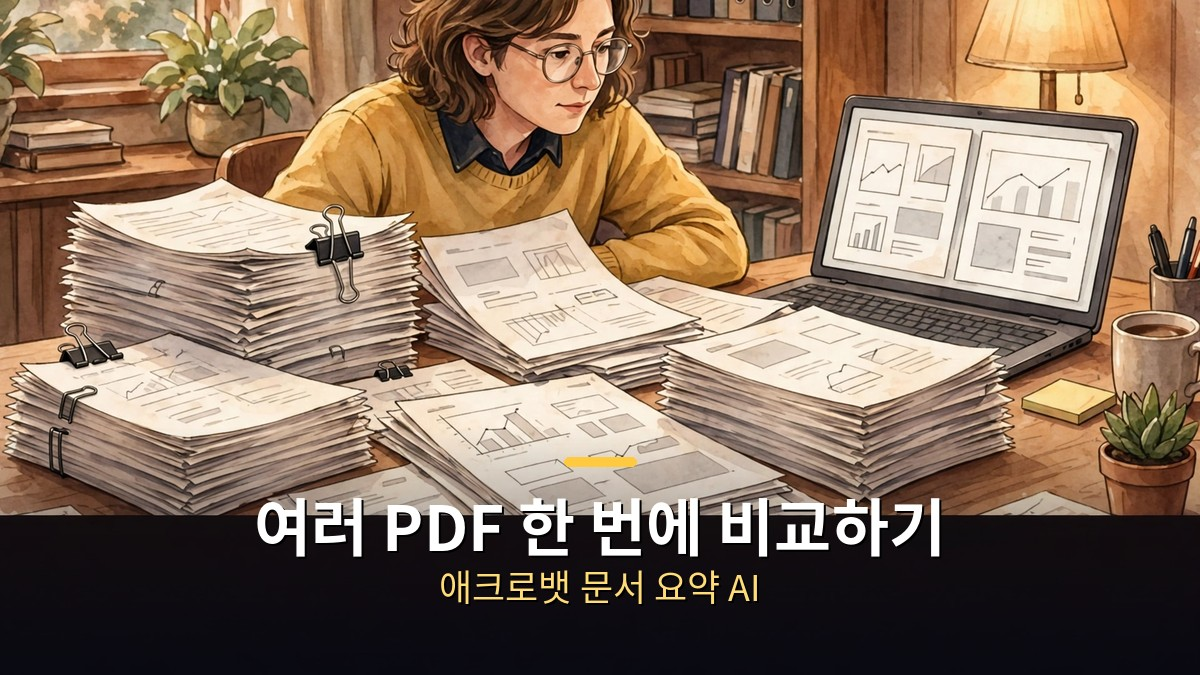
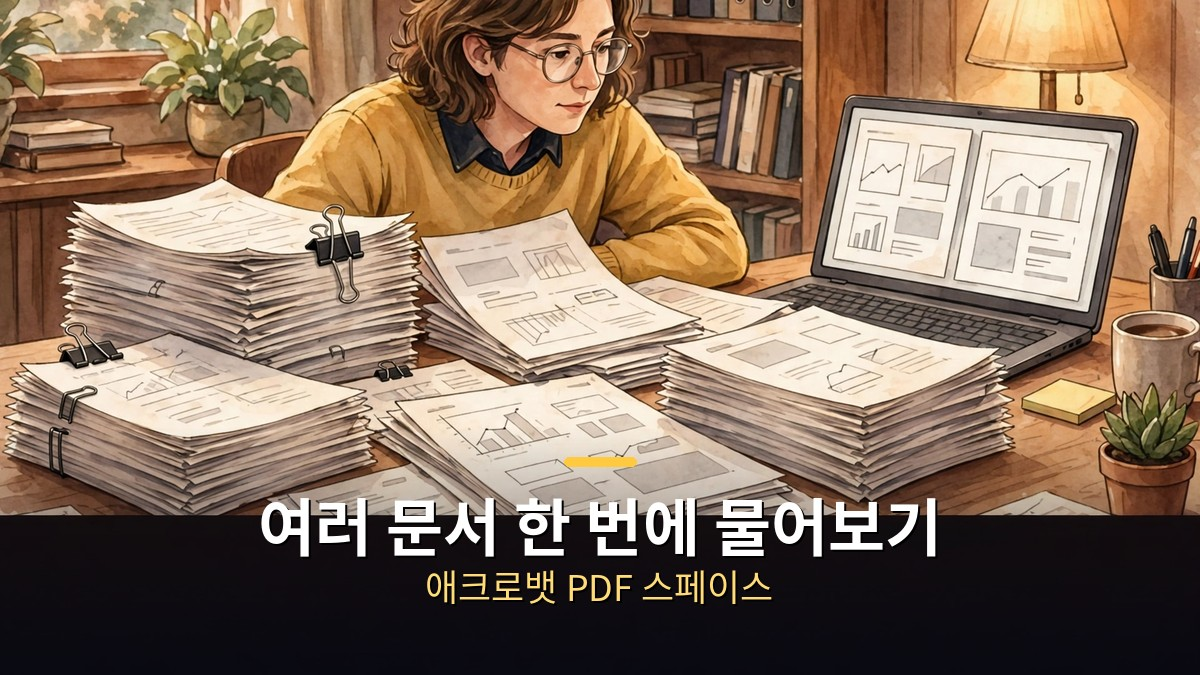
2026-10-30 muse-01 rev2: news 001 PDF Spaces reframe + 002 Carbon Argon note

Changed region(s): [[0.2158, 0.7156, 0.8017, 0.9022]]

diff --git a/posts/muse-01/2026-10-30-001/post.en.md b/posts/muse-01/2026-10-30-001/post.en.md
@@ -2,9 +2,9 @@
 post_id: "2026-10-30-001"
 muse_account: "muse-01"
 language: "en"
-revision: 1
+revision: 2
 status: "ready"
-title: "Comparing Multiple PDFs at Once｜How to Use Acrobat's Document Summary AI"
+title: "Asking Several Documents at Once｜How to Use Acrobat PDF Spaces"
 category: "AI 뉴스"
 platform_categories:
   wordpress-en: "AI News"
@@ -24,96 +24,95 @@ result:
 
 <!-- 본문 시작 -->
 
-![Comparing Multiple PDFs at Once](images/01-hero-en.jpg)
+![Asking Documents at Once](images/01-hero-en.jpg)
 
-Contracts, reports, papers.
-Open them one by one and you end up reading the same content three times.
+The more reports pile up, the slower finding an answer becomes.
+You open files one by one, compare numbers, and flip between last month and this month.
 
-Acrobat's document summary AI summarizes and compares several documents at once.
-The point is not to read less, but to narrow down exactly what needs checking.
+Acrobat PDF Spaces gathers several documents in one place and lets you ask questions of them.
+Instead of reading documents, you ask the documents.
 
 > **Key takeaway**
 >
-> Summarizing and comparing multiple documents at once is what Acrobat AI does best.
-> For contracts, it compares up to 10 documents for changes and inconsistencies, and shows citations to the original text for its answers.
-> A summary is only a starting point. Before signing or paying, click the citation and check the original yourself.
+> A PDF Space is a room that answers only from documents you put in it.
+> Numbers in an answer carry citation numbers pointing to the original text, so clicking one lets you check the evidence yourself.
+> Up to 100 files, links, and text blocks can be gathered in one Space.
+> But the reports and figures shown in the video demo are fictional material made for filming, so they must not be quoted as real business figures.
 
-## What changes when you summarize several documents at once?
+## What makes a PDF Space different?
 
-![Many Documents, One Summary](images/02-img1-en.jpg)
-When several documents are summarized together, you no longer read each file separately.
+![A Room You Ask Questions In](images/02-img1-en.jpg)
+A PDF Space is not a folder. It is a room you ask questions in.
 
-Acrobat AI Assistant creates an outline and section summaries when you open a document.
-Its distinctive feature is analyzing multiple documents together, pulling out shared points, differences, and connections.
-According to Adobe's official guidance, up to 100 documents can be analyzed at once.
+First create a Space, then add PDF, Excel, PowerPoint, and Word documents and web links.
+You can add them as they are, without converting them to PDF first. That is the starting point.
+According to the video, up to 100 files, links, and text blocks can be gathered in one Space.
 
+Once documents are in, an automatic summary is created, and questions are answered from the documents inside the Space.
 This shines when material is scattered.
-Meeting notes in several files, multiple versions of a report, survey results split across files.
-Gathering only the key points from each file makes it much faster to grasp the whole picture.
+Monthly reports in several files, or supplier documents in several files, can be compared across files with one question.
 
-But the wider the scope, the rougher the summary becomes.
-With more files, it is harder to fit every detailed condition into the summary.
-So use the overall summary to set direction, and re-check important numbers and conditions in the individual files.
+But the wider the scope, the rougher the answer becomes.
+With more files, it is harder to fit every detailed condition into the answer.
+So use the overall summary to set direction, and re-check important numbers and conditions in the original through the citation numbers.
 
-When summarizing multiple documents, deciding your questions first makes the result much sharper.
-"What is the shared conclusion?" or "Where do they disagree?" Set the comparison criteria first.
-Asking only "summarize this" tends to leave polished sentences while the differences you actually need drop out.
+## How do you compare monthly reports?
 
-## How should contract comparison be used?
+![Monthly Comparison in One Question](images/03-img2-en.jpg)
+The key to comparison is asking one clear question.
 
-![Comparing Contracts This Way](images/03-img2-en.jpg)
-Contract comparison is the most practical use of multi-document summary.
+For example, put several months of reports in a Space and ask, "What changed between last month and this month?"
+Add a new month's report to the same Space, and the comparison with earlier months continues.
+How the trend changed, and which item stands out, gets organized by one question.
 
-When Acrobat AI Assistant recognizes a document as a contract, it switches to a contract view.
-It shows key dates and main terms at a glance, and suggests questions specific to each contract.
-Scanned contracts can also be compared, with up to 10 contracts checked for changes and inconsistencies.
+The most important caution in this flow is telling demo material apart from real material.
+The monthly report comparison shown in the video uses fictional material made for filming.
+The flow can be used as a reference, but the figures and company names in the demo are not real business material and must not be quoted as they are.
 
 Three questions work well in practice.
-First, "Summarize this contract's key dates and payment terms."
-Second, "What changed compared with the previous version?"
-Third, "Does any clause conflict with the other contracts?"
+First, "Summarize how this month's key indicators changed from last month."
+Second, "If any item stands out, show me the original location that supports it."
+Third, "After adding the new report, what differs from the previous trend?"
 
-These questions matter because the most expensive mistake in contract review is a clause you never saw.
-One changed sentence or one missing date can become a dispute later.
-AI comparison reduces that risk, but it does not replace legal judgment.
+The more specific the question, the easier it is to check the sources.
+Asking only "summarize this" tends to leave polished sentences while the differences you actually need drop out.
 
-So once you have a comparison result, the next steps are fixed.
-Read the changed clauses in the original, and re-check amounts, dates, and termination conditions as numbers.
-If a clause looks doubtful, open the citation location before passing it to a lawyer or legal team.
+## What about checking, sharing, and cautions?
 
-## Can you trust the answers as they are?
+![Check, Share, and Take Care](images/04-img3-en.jpg)
+Do not trust answers as they are.
+A PDF Space's strength is the citation number attached to each answer.
 
-![Do Not Trust Answers Blindly](images/04-img3-en.jpg)
-No, not as they are.
-Acrobat AI Assistant's strength is showing a citation to the original text for each answer.
-
-Clicking a citation jumps straight to that sentence in the original document.
-The reason is clear.
+Clicking a citation number jumps to that figure's location in the original document.
 A summary is a sentence the AI made, and the original is the real evidence.
-
-So a good order is this.
-First grasp the whole picture from the AI summary, then click citations and check just three key sentences in the original.
 Before an irreversible decision such as signing, paying, or submitting, never skip this checking step.
 
-Check the terms of use in advance too.
-Whether AI Assistant is included can vary by plan.
-Before using it, check whether your plan includes the feature or requires a separate subscription.
-Adobe's business guidance states that business data is not used to train AI models, but for personal documents it is safer to re-check your own account settings and terms for how documents are stored and processed.
+According to the video, documents users upload are not used to train Adobe's generative AI models.
+That explanation targets people worried about accuracy and safety.
+But since this is the video's claim, it is safer to re-check your own account terms and settings before uploading important documents.
 
-In short, Acrobat's document summary AI is not a tool for reading fewer documents.
-It is a tool for narrowing down what to check.
-Bundle several documents, compare contract changes, and verify through citations, and the fatigue of document work drops sharply.
+Extra features follow as well.
+An audio summary can be listened to through a link or QR code after checking and editing its script, and presentation material built from uploaded documents can be edited in Adobe Express.
+When inviting team members, editing permission and viewing permission can be separated.
+
+Check the terms of use in advance too.
+PDF Spaces is available with the Adobe Acrobat Studio plan, and the video description mentions a 7-day free trial.
+Before using it, check whether your plan includes the feature and what charges apply after the trial.
+
+In short, a PDF Space is not a tool for reading fewer documents.
+It is a room for asking documents questions.
+Gather several documents in one place, ask comparison questions, and verify through citations, and the fatigue of reading piled-up reports drops sharply.
 
 ## Frequently asked questions
 
-**Q. Does it work with non-PDF files?**
-A. Acrobat AI Assistant works on PDF documents. Convert other formats to PDF first.
+**Q. What files can I put in?**
+A. According to the video, PDF, Excel, PowerPoint, and Word documents, web links, and text blocks can be gathered in one Space. They can be added without converting them to PDF first.
 
-**Q. Can scanned documents be compared?**
-A. Contract comparison guidance says scanned documents can be included, up to 10 in total. If scan quality is low, recognition can be wrong, so check key clauses against the original image as well.
+**Q. Can I use it for free?**
+A. The video description mentions a 7-day free trial. After the trial, check the Acrobat Studio plan terms.
 
-**Q. Can a summary be wrong?**
-A. Yes, it can. That is why clicking the citation to check the original is essential. Re-check amounts, dates, and termination conditions as numbers.
+**Q. Are uploaded documents used for AI training?**
+A. The video states that documents users upload are not used to train Adobe's generative AI models. For important documents, it is safer to re-check your own account terms.
 
 ## Further reading
 
@@ -125,5 +124,5 @@ A. Yes, it can. That is why clicking the citation to check the original is essen
 
 ## 작업용 출처·이미지 정보 (업로드 제외)
 
-- 자료 출처: 오후다섯씨 '애크로뱃 문서 요약 AI로 여러 문서와 PDF 한 번에 비교하는 법' (2026-10-29, 제목·주제 기준) / Adobe Acrobat AI Assistant 공식 안내 웹 리서치 (2026-10-30 확인: 최대 100개 문서 동시 분석, 계약서 최대 10개 대조, 인용 출처)
+- 자료 출처: 오후다섯씨 '애크로뱃 문서 요약 AI로 여러 문서와 PDF 한 번에 비교하는 법' (2026-10-29, 자막·설명 확인 rev2) / Acrobat PDF 스페이스: 스페이스 생성→파일·링크·텍스트 블록 최대 100개→비교 질문→출처 번호 확인→오디오 요약·발표 자료·팀 공유, Acrobat Studio 플랜·7일 무료 체험, 시연 자료는 가상 자료
 - 이미지: images/01-hero-en.jpg ~ 04-img3-en.jpg / 직접 제작 (AI 생성 + 영어 오버레이) / 사용권: 자작

diff --git a/posts/muse-01/2026-10-30-002/post.md b/posts/muse-01/2026-10-30-002/post.md
@@ -2,7 +2,7 @@
 post_id: "2026-10-30-002"
 muse_account: "muse-01"
 language: "ko"
-revision: 1
+revision: 2
 status: "ready"
 title: "구글 제미나이 4 카본｜1위 점수보다 먼저 볼 것, 아직 못 쓴다"
 category: "AI 뉴스"
@@ -95,6 +95,7 @@ result:
 도입 기간이 끝나면 입력 4달러, 출력 20달러로 오른다고 안내됐지만, 도입 가격의 종료 시점도 밝히지 않았다.
 
 일반 독자에게는 이 결론이 가장 쓸모 있다.
+영상과 보도에 따르면 카본은 공개 API가 없고 Gemini 앱에서도 쓸 수 없으며, 당장 쓸 수 있는 구글의 최상위 모델은 아르곤이다.
 지금 당장 모델을 바꿀 필요는 없다.
 카본이 내가 쓰는 서비스나 개발 도구에 들어오는지, 그때 가격이 어떻게 되는지를 확인한 뒤에 판단해도 늦지 않다.
 1위 발표에 서둘러 갈아타는 것보다, 공개 범위가 넓어지는 시점을 지켜보는 편이 안전하다.
@@ -120,5 +121,5 @@ A. 도입 가격은 입력 100만 토큰당 2달러, 출력 10달러다. 도입 
 
 ## 작업용 출처·이미지 정보 (업로드 제외)
 
-- 자료 출처: TheAIGRID 'Gemini 4 Carbon - The Worlds Smartest AI' (2026-10-30 04:36 KST, 제목·주제 기준) / 구글 발표 보도 웹 리서치 (2026-10-30 확인: 2026-10-28 발표, Intelligence Index 59점, 보안 3종 수치, Fairwind 선공개, 도입 가격 2달러/10달러)
+- 자료 출처: TheAIGRID 'Gemini 4 Carbon' (2026-10-30, 자막·설명 확인 rev2) / 구글 발표 보도 웹 리서치 (2026-10-30 확인: 2026-10-28 발표, Intelligence Index 59점, 보안 3종 수치, Fairwind 선공개, 도입 가격 2달러/10달러, 당장 쓸 수 있는 최상위 구글 모델은 아르곤)
 - 이미지: images/01-hero.jpg ~ 04-img3.jpg / 직접 제작 (AI 생성 + 한글 오버레이) / 사용권: 자작

diff --git a/posts/muse-01/2026-10-30-002/post.en.md b/posts/muse-01/2026-10-30-002/post.en.md
@@ -2,7 +2,7 @@
 post_id: "2026-10-30-002"
 muse_account: "muse-01"
 language: "en"
-revision: 1
+revision: 2
 status: "ready"
 title: "Google's Gemini 4 Carbon｜Before the No. 1 Score, Note This: You Cannot Use It Yet"
 category: "AI 뉴스"
@@ -98,6 +98,7 @@ Input is $2 per million tokens and output $10, with repeated input discounted by
 After the introductory period, prices rise to $4 and $20, but Google gave no end date for the lower price.
 
 For ordinary readers, this is the useful conclusion.
+According to the video and press reports, Carbon has no public API and is not available in the Gemini app, and the top Google model usable right now is Argon.
 There is no need to switch models right now.
 It is not too late to decide after checking whether Carbon arrives in the services or tools you use, and at what price.
 Watching the rollout widen is safer than rushing to switch on a No. 1 announcement.
@@ -123,5 +124,5 @@ A. Introductory pricing is $2 per million input tokens and $10 per million outpu
 
 ## 작업용 출처·이미지 정보 (업로드 제외)
 
-- 자료 출처: TheAIGRID 'Gemini 4 Carbon - The Worlds Smartest AI' (2026-10-30 04:36 KST, 제목·주제 기준) / 구글 발표 보도 웹 리서치 (2026-10-30 확인: 2026-10-28 발표, Intelligence Index 59점, 보안 3종 수치, Fairwind 선공개, 도입 가격 2달러/10달러)
+- 자료 출처: TheAIGRID 'Gemini 4 Carbon' (2026-10-30, 자막·설명 확인 rev2) / 구글 발표 보도 웹 리서치 (2026-10-30 확인: 2026-10-28 발표, Intelligence Index 59점, 보안 3종 수치, Fairwind 선공개, 도입 가격 2달러/10달러, 당장 쓸 수 있는 최상위 구글 모델은 아르곤)
 - 이미지: images/01-hero-en.jpg ~ 04-img3-en.jpg / 직접 제작 (AI 생성 + 영어 오버레이) / 사용권: 자작
